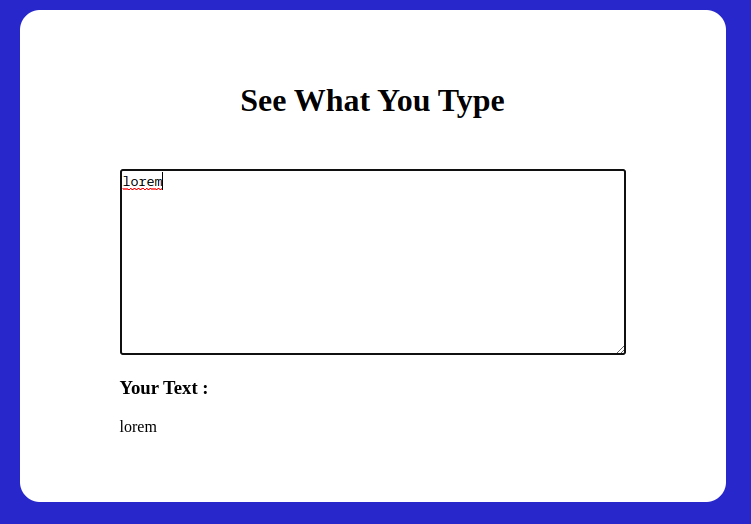
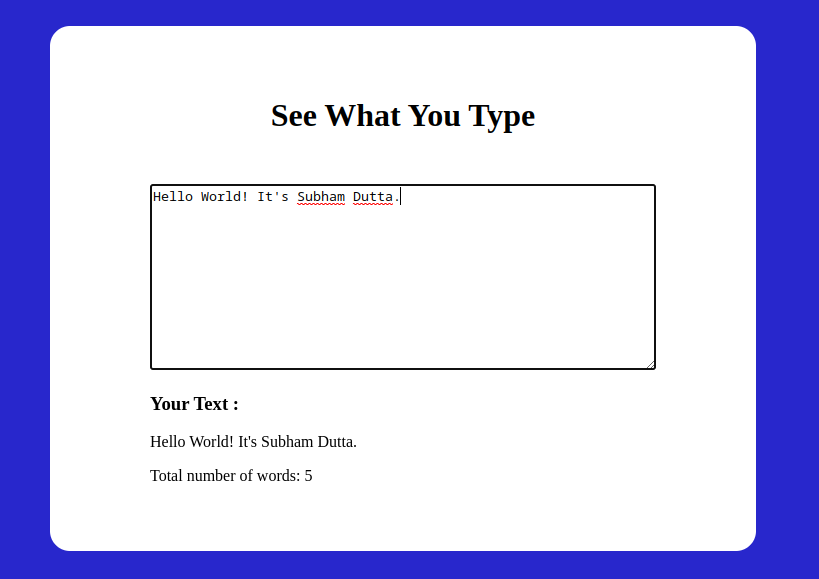
calculator project added

diff --git a/Projects/13-Calculator/index.html b/Projects/13-Calculator/index.html
@@ -6,13 +6,13 @@
     <meta http-equiv="X-UA-Compatible" content="ie=edge">
     <title>Calculator</title>
     <link rel="stylesheet" href="./style.css">
-    <script src="./script.js"></script>
+    <!-- <script src="./script.js"></script> -->
 </head>
 <body>
    
     <div class="container">
         <form name="form">
-            <input class="textview" name="textview">
+            <input class="textview" id="display" name="textview">
         </form>
             <table>
                 <tr>
@@ -48,5 +48,6 @@
 
             </table>
     </div>
+    <script src="./script.js"></script>
 </body>
 </html>

diff --git a/Projects/3-SeeWhatYouType/index.html b/Projects/3-SeeWhatYouType/index.html
@@ -13,15 +13,8 @@
       <textarea id="input" cols="30" rows="10" oninput="update()"></textarea>
       <h3>Your Text :</h3>
       <p id="output">Input Box Is Empty... Start Typing</p>
+      <p>Total number of words: <span id="w-count"></span></p>
     </div>
   </body>
-  <script>
-    //code here
-    function update(){
-      let text = document.getElementById("input").value;
-      if(text != ""){
-        document.getElementById("output").textContent = text;
-      }
-    }
-  </script>
+  <script src="./script.js"></script>
 </html>

diff --git a/Projects/13-Calculator/script.js b/Projects/13-Calculator/script.js
@@ -1,0 +1,25 @@
+var disp = document.querySelector(".textview")
+
+let val = ""
+
+function insert(x){
+    val = val + x;
+    disp.value = val;
+}
+
+function clean(){
+    val = ""
+    disp.value= val;
+}
+
+function equals(){
+    let calc = eval(val)
+    disp.value = calc;
+    val = ""
+}
+
+function back(){
+    val = val.slice(0, -1);
+    disp.value = val;
+    
+}

diff --git a/Projects/3-SeeWhatYouType/script.js b/Projects/3-SeeWhatYouType/script.js
@@ -1,0 +1,12 @@
+function update(){
+    let text = document.getElementById("input").value;
+    if(text != ""){
+      document.getElementById("output").textContent = text;
+    }
+    let val;
+
+    val = text.split(" ");
+
+    document.getElementById("w-count").textContent = val.length;
+}
+  

diff --git a/README.md b/README.md
@@ -47,7 +47,7 @@ This is a basic counter that can count a single degit increment and decrement fu
 **Live link:** [Here](https://basicounter.netlify.app/)
 
 ## **6. See What You Type:**
-This web app shows the output of what you type in the input textbox in real time.
+This web app shows the output of what you type in the input textbox in real time. Itcan also count the total number of words in the input textbox.
 
 
 **Screenshot:** 
@@ -151,7 +151,7 @@ This app takes binary number as input and returns it's Decimal value.
 **Live link:** [Here](https://binary2deci.netlify.app/)
 
 ## **14. Stopwatch:** 
-This is a normal Stopwatch. I have designed th UI of this app and used Tailwind CSS for that.
+This is a normal Stopwatch. I have designed th UI of this app and used Tailwind CSS for that. This app is mobile responsive.
 
 **Screenshot:** 
 
@@ -160,6 +160,17 @@ This is a normal Stopwatch. I have designed th UI of this app and used Tailwind 
 **Source Code:** [Here](./Projects/12-stopwatch/)
 
 **Live link:** [Here](https://subham-stopwatch.netlify.app/)
+
+## **15. Calculator:** 
+This is a calculator app built with HTML, CSS, JavaScript.
+
+**Screenshot:** 
+
+![accord](./Images/calc.png)
+
+**Source Code:** [Here](./Projects/13-Calculator/)
+
+**Live link:** [Here](https://jscalc2.netlify.app/)
 
 
 <br><br>
